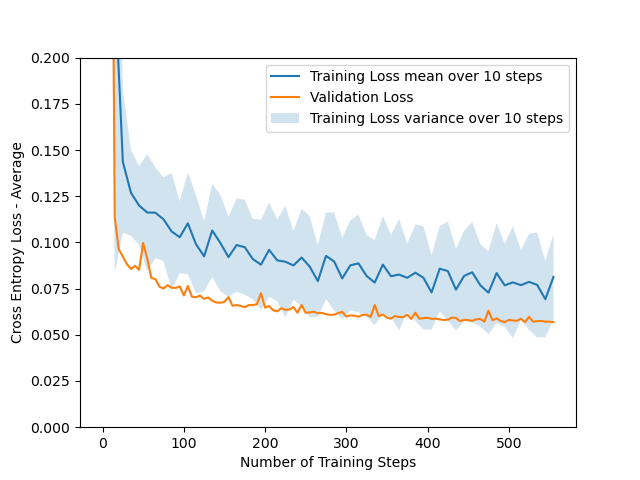
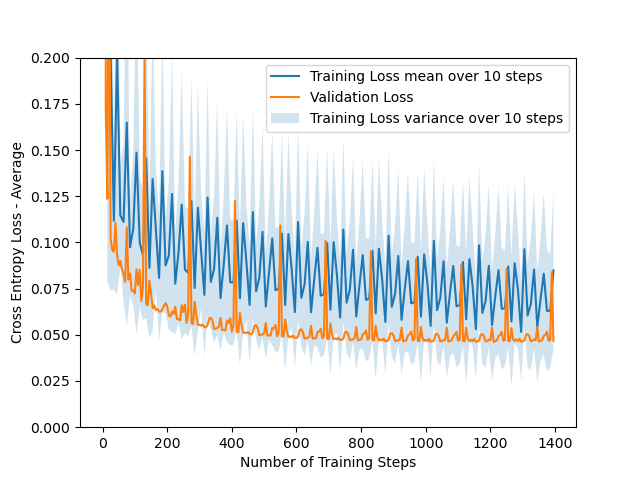
Task 3 complete

diff --git a/assignment1/task3a.py b/assignment1/task3a.py
@@ -15,17 +15,18 @@ def cross_entropy_loss(targets: np.ndarray, outputs: np.ndarray):
     # TODO implement this function (Task 3a)
     assert targets.shape == outputs.shape,\
         f"Targets shape: {targets.shape}, outputs: {outputs.shape}"
-    raise NotImplementedError
+
+    return np.average(-np.sum(targets*np.log(outputs), axis=1))
 
 
 class SoftmaxModel:
 
     def __init__(self, l2_reg_lambda: float):
         # Define number of input nodes
-        self.I = None
+        self.I = 785
 
         # Define number of output nodes
-        self.num_outputs = None
+        self.num_outputs = 10
         self.w = np.zeros((self.I, self.num_outputs))
         self.grad = None
 
@@ -39,7 +40,7 @@ class SoftmaxModel:
             y: output of model with shape [batch size, num_outputs]
         """
         # TODO implement this function (Task 3a)
-        return None
+        return np.exp(X.dot(self.w))/np.sum(np.exp(X.dot(self.w)), axis=1, keepdims=True)
 
     def backward(self, X: np.ndarray, outputs: np.ndarray, targets: np.ndarray) -> None:
         """
@@ -51,11 +52,13 @@ class SoftmaxModel:
             targets: labels/targets of each image of shape: [batch size, num_classes]
         """
         # TODO implement this function (Task 3a)
-        # To implement L2 regularization task (4b) you can get the lambda value in self.l2_reg_lambda 
+        # To implement L2 regularization task (4b) you can get the lambda value in self.l2_reg_lambda
         # which is defined in the constructor.
         assert targets.shape == outputs.shape,\
             f"Output shape: {outputs.shape}, targets: {targets.shape}"
-        self.grad = np.zeros_like(self.w)
+
+        self.grad = -(targets-outputs).T.dot(X).T / len(X)
+
         assert self.grad.shape == self.w.shape,\
              f"Grad shape: {self.grad.shape}, w: {self.w.shape}"
 
@@ -72,12 +75,17 @@ def one_hot_encode(Y: np.ndarray, num_classes: int):
         Y: shape [Num examples, num classes]
     """
     # TODO implement this function (Task 3a)
-    raise NotImplementedError
+    Y_new = np.zeros((Y.shape[0], num_classes))
+
+    for i, label in enumerate(Y):
+        Y_new[i, label[0]] = 1
+
+    return Y_new
 
 
 def gradient_approximation_test(model: SoftmaxModel, X: np.ndarray, Y: np.ndarray):
     """
-        Numerical approximation for gradients. Should not be edited. 
+        Numerical approximation for gradients. Should not be edited.
         Details about this test is given in the appendix in the assignment.
     """
     w_orig = np.random.normal(loc=0, scale=1/model.w.shape[0]**2, size=model.w.shape)

diff --git a/assignment1/task2.py b/assignment1/task2.py
@@ -82,7 +82,7 @@ if __name__ == "__main__":
     # Load dataset
     category1, category2 = 2, 3
     X_train, Y_train, X_val, Y_val = utils.load_binary_dataset(
-        category1, category2)
+        category1, category2, sample_stochastic=False)
 
     X_train = pre_process_images(X_train)
     X_val = pre_process_images(X_val)
@@ -108,26 +108,26 @@ if __name__ == "__main__":
     print("Validation accuracy:", calculate_accuracy(X_val, Y_val, model))
 
     # Plot loss for first model (task 2b)
-    print('plotting')
-    plt.ylim([0., .2])
-    utils.plot_loss(train_history["loss"],
-                    "Training Loss", npoints_to_average=10)
-    utils.plot_loss(val_history["loss"], "Validation Loss")
-    plt.legend()
-    plt.xlabel("Number of Training Steps")
-    plt.ylabel("Cross Entropy Loss - Average")
-    plt.savefig("task2b_binary_train_loss.png")
-    plt.show()
+    # print('plotting')
+    # plt.ylim([0., .2])
+    # utils.plot_loss(train_history["loss"],
+    #                 "Training Loss", npoints_to_average=10)
+    # utils.plot_loss(val_history["loss"], "Validation Loss")
+    # plt.legend()
+    # plt.xlabel("Number of Training Steps")
+    # plt.ylabel("Cross Entropy Loss - Average")
+    # plt.savefig("task2b_binary_train_loss.png")
+    # plt.show()
 
-    # Plot accuracy
-    plt.ylim([0.93, .99])
-    utils.plot_loss(train_history["accuracy"], "Training Accuracy")
-    utils.plot_loss(val_history["accuracy"], "Validation Accuracy")
-    plt.xlabel("Number of Training Steps")
-    plt.ylabel("Accuracy")
-    plt.legend()
-    plt.savefig("task2b_binary_train_accuracy.png")
-    plt.show()
+    # # Plot accuracy
+    # plt.ylim([0.93, .99])
+    # utils.plot_loss(train_history["accuracy"], "Training Accuracy")
+    # utils.plot_loss(val_history["accuracy"], "Validation Accuracy")
+    # plt.xlabel("Number of Training Steps")
+    # plt.ylabel("Accuracy")
+    # plt.legend()
+    # plt.savefig("task2c_binary_train_accuracy.png")
+    # plt.show()
 
     # Task 2e - Create a comparison between training with and without shuffling
     shuffle_dataset = True

diff --git a/assignment1/task3.py b/assignment1/task3.py
@@ -17,7 +17,14 @@ def calculate_accuracy(X: np.ndarray, targets: np.ndarray, model: SoftmaxModel) 
         Accuracy (float)
     """
     # TODO: Implement this function (task 3c)
-    accuracy = 0
+    outputs = model.forward(X)
+    # np.save('pred', predictions)
+    # np.save('tar', targets)
+    # exit()
+    predictions = np.argmax(outputs, axis=1)
+    correct_predictions = np.sum(predictions == np.where(targets==1)[1])
+    accuracy = np.sum(correct_predictions) / len(predictions)
+
     return accuracy
 
 
@@ -36,7 +43,12 @@ class SoftmaxTrainer(BaseTrainer):
             loss value (float) on batch
         """
         # TODO: Implement this function (task 3b)
-        loss = 0
+        outputs = self.model.forward(X_batch)
+
+        self.model.backward(X_batch, outputs, Y_batch)
+        self.model.w -= self.learning_rate * self.model.grad
+
+        loss = cross_entropy_loss(Y_batch, outputs)
         return loss
 
     def validation_step(self):
@@ -102,7 +114,7 @@ if __name__ == "__main__":
     plt.legend()
     plt.xlabel("Number of Training Steps")
     plt.ylabel("Cross Entropy Loss - Average")
-    plt.savefig("task3b_softmax_train_loss.png")
+    # plt.savefig("task3b_softmax_train_loss.png")
     plt.show()
 
     # Plot accuracy
@@ -112,7 +124,8 @@ if __name__ == "__main__":
     plt.xlabel("Number of Training Steps")
     plt.ylabel("Accuracy")
     plt.legend()
-    plt.savefig("task3b_softmax_train_accuracy.png")
+    # plt.savefig("task3c_softmax_train_accuracy.png")
+    # plt.savefig("task3d_softmax_train_accuracy_overfitting.png")
     plt.show()
 
     # Train a model with L2 regularization (task 4b)

diff --git a/assignment1/trainer.py b/assignment1/trainer.py
@@ -92,10 +92,10 @@ class BaseTrainer:
                     # TODO (Task 2d): Implement early stopping here.
                     # You can access the validation loss in val_history["loss"]
                     losses = [*val_history["loss"].values()]
-                    if len(losses) > 10 and np.all(losses[-11] < losses[-10:]):
+                    if len(losses) > 10 and np.all(losses[-11] < losses[-10:]): # All ten last losses are higher than the 11th last.
                         early_stop = True
+                        print(f'Early stop kicks in after {epoch+1} epochs')
 
-                    print('Step:', global_step, end='\r')
                 global_step += 1
             if early_stop:
                 break

diff --git a/assignment1/utils.py b/assignment1/utils.py
@@ -28,6 +28,11 @@ def batch_loader(
 
     # TODO (task 2e) implement dataset shuffling here.
 
+    if shuffle:
+        p = np.random.permutation(len(X))
+        X = X[p]
+        Y = Y[p]
+
     for i in range(num_batches):
         # select a set of indices for each batch of samples
         batch_indices = indices[i*batch_size:(i+1)*batch_size]
